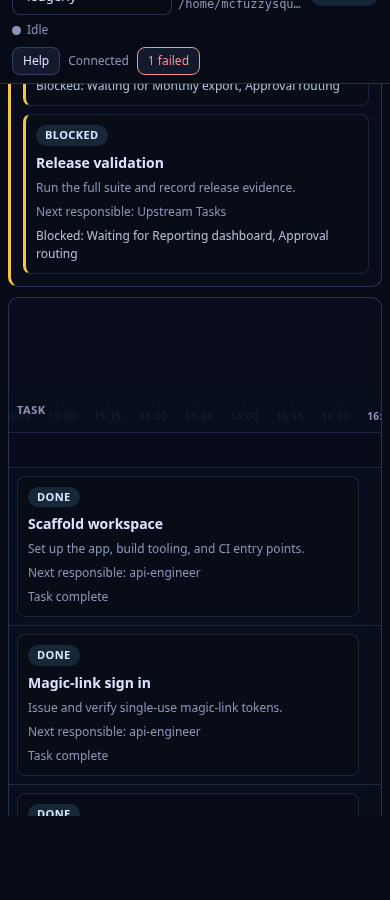
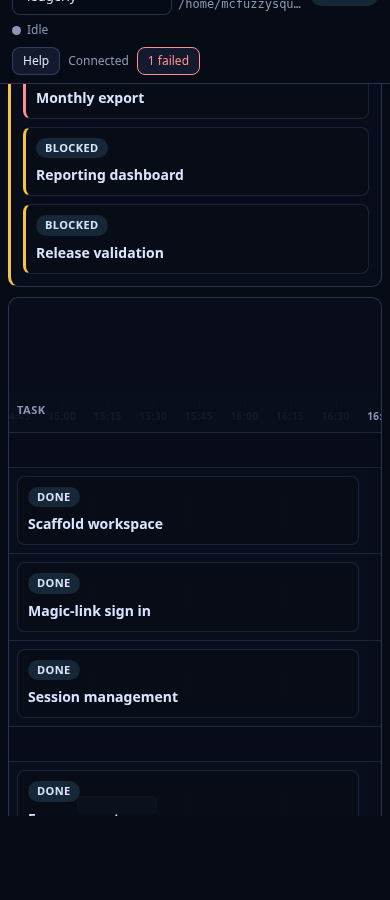
fix: simplify Board task cards

diff --git a/tools/console-screenshots/src/adaptive-review-acceptance.test.ts b/tools/console-screenshots/src/adaptive-review-acceptance.test.ts
@@ -678,3 +678,79 @@ test("Stop requires confirmation and only sends the stop action after approval",
     else process.env.FORGE_HOME = previousHome;
   }
 });
+
+test("Board task controls stay concise until selected", async () => {
+  const fixture = await createFixture("minimal-board-cards");
+  const previousHome = process.env.FORGE_HOME;
+  let server: ConsoleServer | undefined;
+  let browser: Browser | undefined;
+  let page: Page | undefined;
+  try {
+    ({ server, browser, page } = await startBrowserConsole(fixture));
+    await page.evaluate(() => { location.hash = "#/board"; });
+    await page.waitForSelector(".board-kanban-table .board-task-control");
+
+    const normalizeText = (value: string): string => value.replace(/\s+/g, " ").trim();
+    const compactControl = async (selector: string) => {
+      const control = await page!.$(selector);
+      assert.ok(control, `Expected a task control matching ${selector}.`);
+      const visibleText = await control.evaluate((button) =>
+        button instanceof HTMLElement ? button.innerText : button.textContent ?? "",
+      );
+      return { control, visibleText };
+    };
+    const selectedTaskDetails = async () => page!.$eval(".board-details", (panel) => {
+      const status = Array.from(panel.querySelectorAll("dt"))
+        .find((label) => label.textContent?.trim() === "Status")
+        ?.nextElementSibling?.textContent ?? "";
+      return {
+        status,
+        title: panel.querySelector("h3")?.textContent ?? "",
+        text: panel.textContent ?? "",
+        summary: panel.querySelector(".board-details-summary")?.textContent?.trim() ?? "",
+      };
+    });
+    const assertCompact = (cardText: string, status: string, title: string): void => {
+      assert.ok(status.trim(), "Selected Task details should expose its status.");
+      assert.ok(title.trim(), "Selected Task details should expose its title.");
+      assert.equal(
+        normalizeText(cardText).toLocaleLowerCase(),
+        normalizeText(`${status} ${title}`).toLocaleLowerCase(),
+      );
+    };
+
+    const kanbanCard = await compactControl(".board-kanban-table .board-task-control");
+    await kanbanCard.control.click();
+    await page.waitForSelector(".board-details .board-details-summary");
+    const kanbanDetails = await selectedTaskDetails();
+    assertCompact(kanbanCard.visibleText, kanbanDetails.status, kanbanDetails.title);
+    assert.match(kanbanDetails.text, /Next responsible/);
+    assert.match(kanbanDetails.text, /Next action/);
+    assert.ok(kanbanDetails.summary.length > 0);
+
+    const previousTitle = normalizeText(kanbanDetails.title);
+    await page.click('[data-board-mode="gantt"]');
+    await page.waitForFunction(() =>
+      document.querySelector('[data-board-mode="gantt"]')?.getAttribute("aria-selected") === "true",
+    );
+    const ganttCard = await compactControl(
+      ".board-gantt-table .board-task-control[aria-pressed='false'], .board-gantt-fallback-list .board-task-control[aria-pressed='false']",
+    );
+    await ganttCard.control.click();
+    await page.waitForFunction(
+      (title) => document.querySelector(".board-details h3")?.textContent?.trim() !== title,
+      { timeout: 10000 },
+      previousTitle,
+    );
+    const ganttDetails = await selectedTaskDetails();
+    assertCompact(ganttCard.visibleText, ganttDetails.status, ganttDetails.title);
+  } finally {
+    if (page) await page.close();
+    if (browser) await browser.close();
+    if (server) await server.stop();
+    fixture.cleanup();
+    rmSync(join(WORK_ROOT, "minimal-board-cards"), { recursive: true, force: true });
+    if (previousHome === undefined) delete process.env.FORGE_HOME;
+    else process.env.FORGE_HOME = previousHome;
+  }
+});

diff --git a/scripts/forge-launcher/scripts/console/dashboard/style.css b/scripts/forge-launcher/scripts/console/dashboard/style.css
@@ -782,8 +782,6 @@ body[data-view="board"] #view { max-width: none; padding: 12px clamp(12px, 2vw, 
 .board-task-control:hover, .board-task-control[aria-pressed="true"] { border-color: var(--accent-ink); background: var(--active); }
 .board-task-heading { flex-wrap: wrap; }
 .board-task-title { overflow-wrap: anywhere; }
-.board-task-summary, .board-task-responsible, .board-task-next, .board-task-cue { color: var(--text-dim); font-size: 12px; overflow-wrap: anywhere; }
-.board-task-cue { color: var(--text-soft); }
 .board-attention-label, .board-critical-tag { padding: 2px 6px; border-radius: 999px; background: var(--surface-deep); color: var(--text-soft); font-size: 10px; white-space: nowrap; }
 .board-task-attention-failed { border-left: 3px solid var(--red); }
 .board-task-attention-blocked, .board-task-attention-human-review { border-left: 3px solid var(--accent-ink); }

diff --git a/scripts/forge-launcher/scripts/console/dashboard/views/board.ts b/scripts/forge-launcher/scripts/console/dashboard/views/board.ts
@@ -157,9 +157,6 @@ function taskControl(task: BoardTaskSummary, selectedId: string | null, statuses
       statusBadge(taskStatusLabel(task)),
     ]),
     el("strong", { className: "board-task-title" }, task.title),
-    el("span", { className: "board-task-summary" }, task.summary),
-    el("span", { className: "board-task-responsible" }, `Next responsible: ${task.nextResponsible}`),
-    el("span", { className: task.attentionCue ? "board-task-cue" : "board-task-next" }, task.attentionCue ?? task.nextAction),
   ]);
   return control;
 }

diff --git a/docs/forge-console.md b/docs/forge-console.md
@@ -371,12 +371,12 @@ the workflow engine's tested layout APIs. It does not load a canvas or require
 PixiJS. **Kanban** and **Gantt** are peer views; each Project remembers its
 selection and status filters, and each view remembers its own scroll position.
 
-**Kanban** groups Tasks into phase rows and workflow-status columns. Cards
-foreground the current state while keeping the phase label, Task summary,
-responsibility, attention cue, and next action together.
+**Kanban** groups Tasks into phase rows and workflow-status columns. Cards show
+only the Task status and title; selecting one opens its summary, attention cue,
+next responsible person, next action, and other details.
 
-**Gantt** uses the same Task summaries, attention cues, selection, and filters,
-and adds timeline information:
+**Gantt** uses the same concise Task labels, selection, and filters, and adds
+timeline information:
 
 - **Filled bars are measured; outlined bars are forecast.** Forecasts identify
   their source: observed attempts, the same agent's Tasks, or a default estimate.
@@ -387,8 +387,8 @@ and adds timeline information:
 - **The critical path** is highlighted: the longest chain of remaining work.
 
 Selecting a card or bar opens the same compact Task details: its summary,
-blocker, next responsible, next action, prerequisites, artifact inputs and
-outputs, and changed files. Relationships are structured text, not
+attention cue, blocker, next responsible, next action, prerequisites, artifact
+inputs and outputs, and changed files. Relationships are structured text, not
 pointer-only links or extra focus stops. Full diagnostics remain in **Tasks**.
 Every Task card and Gantt bar is a keyboard-focusable control; Enter or Space
 opens its details, and closing details returns focus to the originating

diff --git a/docs/forge-console-user-guide.md b/docs/forge-console-user-guide.md
@@ -180,12 +180,12 @@ Once the build starts, switch between the views to follow the work:
   - **Gantt** plots the same run against time. Filled bars are measured, outlined
     hatched bars are forecast; Human reviews appear as milestone diamonds, and
     the engine-computed critical path and current-time marker are shown.
-  - Both views share Task summaries, responsibility, attention cues, selection,
-    status filters, and compact details. Selecting a card or bar opens the same
-    detail view with its blocker, next action, prerequisites, artifact inputs
-    and outputs, and changed files. These relationships are structured text,
-    not pointer-only links or extra focus stops; open **All tasks** for full
-    diagnostics.
+  - Task cards show only status and title. Both views share selection, status
+    filters, and the same details panel; selecting a card or bar reveals the
+    summary, attention cue, next responsible person, next action, blocker,
+    prerequisites, artifact inputs and outputs, and changed files. These
+    relationships are structured text, not pointer-only links or extra focus
+    stops; open **All tasks** for full diagnostics.
   - Status filters dim rather than hide Tasks, keeping the full workflow shape
     visible. Selection and filters persist per Project, and each view retains
     its own scroll position across refreshes, view switches, and responsive

diff --git a/docs/forge-console-screenshots.md b/docs/forge-console-screenshots.md
@@ -84,12 +84,13 @@ Task cards and Gantt bars are keyboard controls. Task details expose
 prerequisites and artifact relationships as structured text; selection moves
 focus into details and Close restores it.
 
-**Kanban** — Tasks grouped by phase and workflow status. Cards include their
-summary, responsibility, and attention/next-action cue.
+**Kanban** — Tasks grouped by phase and workflow status. Cards show only status
+and title; select a card to see its summary, responsibility, and
+attention/next-action details.
 
 ![Board - kanban](images/forge-console/03-board.png)
 
-**Gantt** — the same Task summaries against time. Actual and forecast durations
+**Gantt** — concise Task labels against time. Actual and forecast durations
 are distinguished, Human review Tasks are milestones, and the critical path is
 highlighted.
 

diff --git a/README.md b/README.md
@@ -7,7 +7,7 @@
 
 > MyForge turns an idea into a reviewed PRD, a specialist agent team, and an autonomous build.
 
-**Latest: v3.124** — see [docs/updates.md](docs/updates.md) for release notes.
+**Latest: v3.125** — see [docs/updates.md](docs/updates.md) for release notes.
 
 MyForge is a PRD-first workflow for turning product requirements into working software. It combines structured planning, agent-based implementation, and execution orchestration in one path so a project can move from concept to build without losing the review checkpoints that matter.
 

diff --git a/docs/updates.md b/docs/updates.md
@@ -4,6 +4,16 @@ Detailed release and change notes for MyForge.
 
 ---
 
+## November 2026 - v3.125
+
+### Keep Board task cards concise
+
+- Kanban and Gantt task controls show status and title; selecting a task opens
+  its summary, responsibility, attention cue, and next action in the details
+  panel.
+
+---
+
 ## November 2026 - v3.124
 
 ### Route completed authoring to its next action
